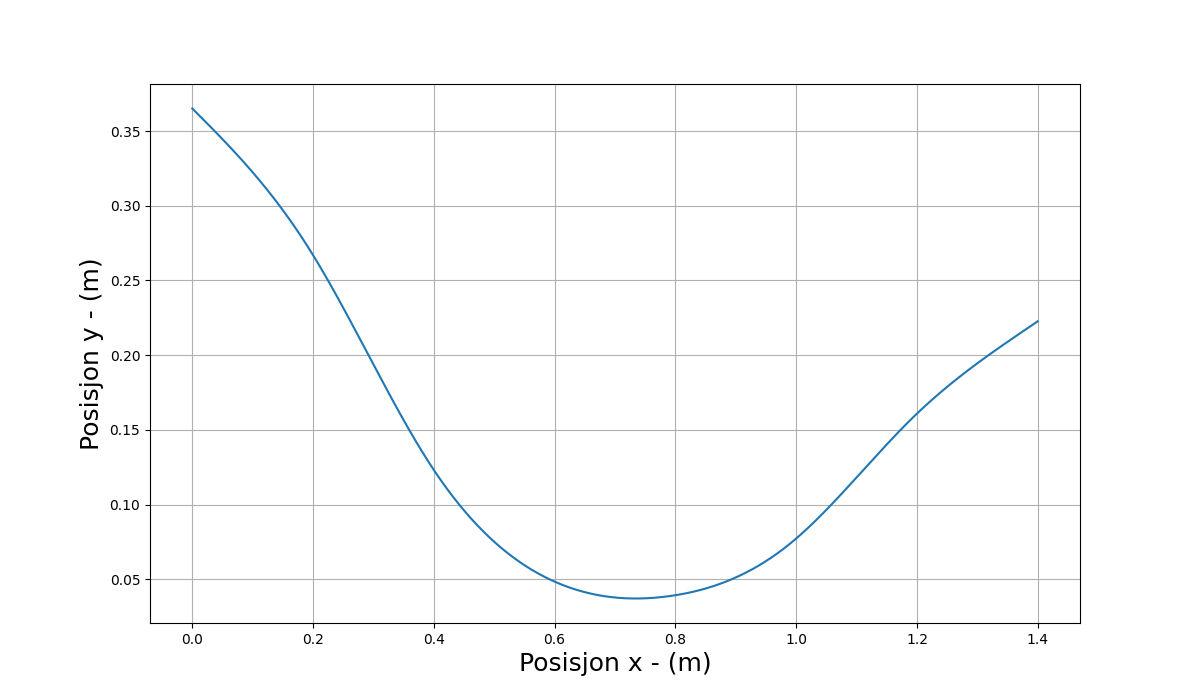
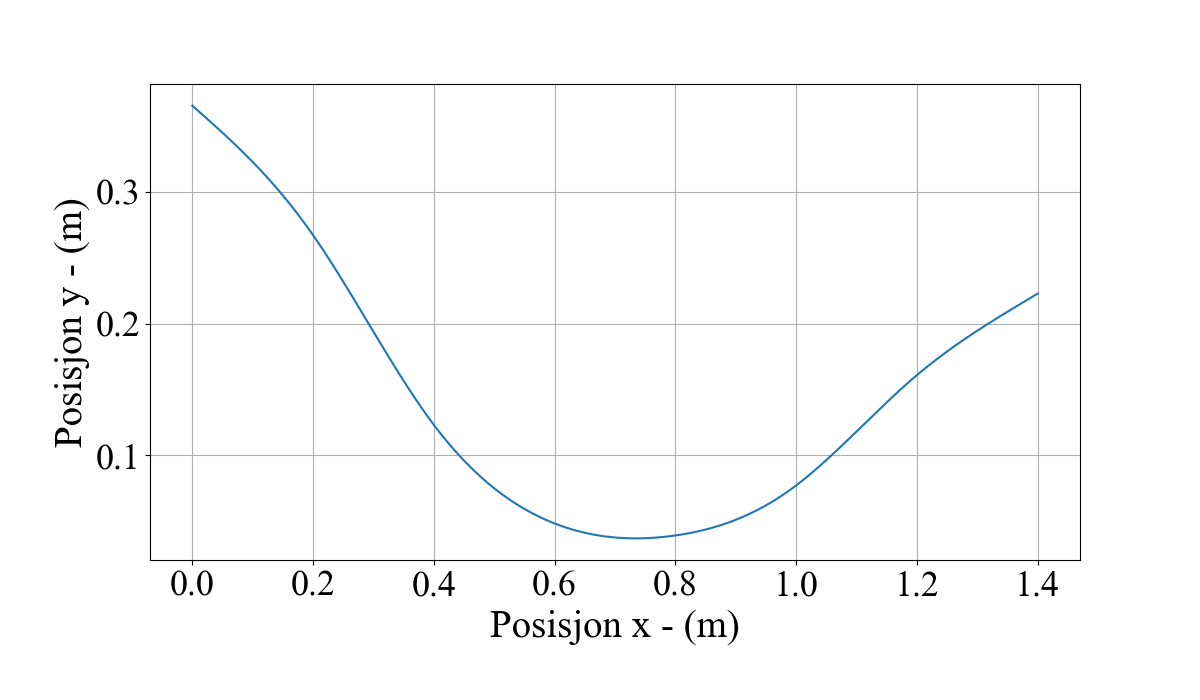
La til slutthastigheter, noe kode oppdatert

diff --git a/cubicspline.py b/cubicspline.py
@@ -1,5 +1,6 @@
 #Importerer noedvendige biblioteker:
 import matplotlib.pyplot as plt
+plt.rcParams["font.family"] = "Times New Roman"
 import numpy as np
 from scipy.interpolate import CubicSpline
 
@@ -105,8 +106,11 @@ def printXofTCompare():
     plt.plot(t, compare_y, color="red", label="Differanse")
     plt.fill_between(t, compare_y, 0, color="red")
     plt.legend()
-    plt.xlabel("Tid t - (s)", fontsize = 18)
-    plt.ylabel("Posisjon x - (m)", fontsize = 18)
+    plt.xlabel("Tid t - (s)", fontsize = 28)
+    plt.ylabel("Posisjon x - (m)", fontsize = 28)
+    plt.tick_params(axis='x', labelsize=26)
+    plt.tick_params(axis='y', labelsize=26)
+    plt.subplots_adjust(bottom=0.2)
     plt.grid()
     plt.savefig("figurer/XofTComp")
     #plt.show()
@@ -115,8 +119,11 @@ def printXofTCompare():
 def printXofT():
     plt.figure(figsize=(12,7), facecolor="w", edgecolor="w")
     plt.plot(t_list, x_t)
-    plt.xlabel("Tid t - (s)", fontsize = 18)
-    plt.ylabel("Posisjon x - (m)", fontsize = 18)
+    plt.xlabel("Tid t - (s)", fontsize = 28)
+    plt.ylabel("Posisjon x - (m)", fontsize = 28)
+    plt.tick_params(axis='x', labelsize=26)
+    plt.tick_params(axis='y', labelsize=26)
+    plt.subplots_adjust(bottom=0.2)
     plt.grid()
     plt.savefig("figurer/XofT")
     # plt.show()
@@ -125,28 +132,42 @@ def printXofT():
 def printVofT():
     plt.figure(figsize=(12,7), facecolor="w", edgecolor="w")
     plt.plot(t_list, v_t)
-    plt.xlabel("Tid t - (s)", fontsize = 18)
-    plt.ylabel("Hastighet v - (m/s)", fontsize = 18)
+    plt.xlabel("Tid t - (s)", fontsize = 28)
+    plt.ylabel("Hastighet v - (m/s)", fontsize = 28)
+    plt.tick_params(axis='x', labelsize=26)
+    plt.tick_params(axis='y', labelsize=26)
+    plt.subplots_adjust(bottom=0.2)
     plt.grid()
     plt.savefig("figurer/VofT")
     # plt.show()
 
 # Plotter V av x
 def printVofX():
+    t, x, y, v = np.genfromtxt("data/10.csv", delimiter=",", skip_header=2, unpack=True)
+    v.append(1.36598)
+    x.append(1.4)
     plt.figure(figsize=(12,7), facecolor="w", edgecolor="w")
-    plt.plot(x_t, v_t)
-    plt.xlabel("Posisjon x - (m)", fontsize = 18)
-    plt.ylabel("Hastighet v - (m/s)", fontsize = 18)
+    plt.plot(x_t, v_t, label="Numerisk hastighet")
+    plt.scatter(x, v, marker="o", color="red", label="Eksperimentell hastighet")
+    plt.legend(fontsize=22)
+    plt.xlabel("Posisjon x - (m)", fontsize = 28)
+    plt.ylabel("Hastighet v - (m/s)", fontsize = 28)
+    plt.tick_params(axis='x', labelsize=26)
+    plt.tick_params(axis='y', labelsize=26)
+    plt.subplots_adjust(bottom=0.2)
     plt.grid()
     plt.savefig("figurer/VofX")
-    #plt.show()
+    plt.show()
 
 # Plotter F av X
 def printFofX():
     plt.figure(figsize=(12,7), facecolor="w", edgecolor="w")
     plt.plot(x, F)
-    plt.xlabel("Posisjon x - (m)", fontsize = 18)
-    plt.ylabel("Friksjonskraft f - (N)", fontsize = 18)
+    plt.xlabel("Posisjon x - (m)", fontsize = 28)
+    plt.ylabel("Friksjonskraft f - (N)", fontsize = 28)
+    plt.tick_params(axis='x', labelsize=26)
+    plt.tick_params(axis='y', labelsize=26)
+    plt.subplots_adjust(bottom=0.2)
     plt.grid()
     plt.savefig("figurer/FofX")
     # plt.show()
@@ -155,8 +176,11 @@ def printFofX():
 def printNofX():
     plt.figure(figsize=(12,7), facecolor="w", edgecolor="w")
     plt.plot(x, N)
-    plt.xlabel("Posisjon x - (m)", fontsize = 18)
-    plt.ylabel("Normalkraft N - (N)", fontsize = 18)
+    plt.xlabel("Posisjon x - (m)", fontsize = 28)
+    plt.ylabel("Normalkraft N - (N)", fontsize = 28)
+    plt.tick_params(axis='x', labelsize=26)
+    plt.tick_params(axis='y', labelsize=26)
+    plt.subplots_adjust(bottom=0.2)
     plt.grid()
     plt.savefig("figurer/NofX")
     # plt.show()
@@ -165,8 +189,11 @@ def printNofX():
 def printYofX():
     plt.figure(figsize=(12,7), facecolor="w", edgecolor="w")
     plt.plot(x, y)
-    plt.xlabel("Posisjon x - (m)", fontsize = 18)
-    plt.ylabel("Posisjon y - (m)", fontsize = 18)
+    plt.xlabel("Posisjon x - (m)", fontsize = 28)
+    plt.ylabel("Posisjon y - (m)", fontsize = 28)
+    plt.tick_params(axis='x', labelsize=26)
+    plt.tick_params(axis='y', labelsize=26)
+    plt.subplots_adjust(bottom=0.2)
     plt.grid()
     plt.savefig("figurer/YofX")
     # plt.show()
@@ -175,8 +202,11 @@ def printYofX():
 def printFNofX():
     plt.figure(figsize=(12,7), facecolor="w", edgecolor="w")
     plt.plot(x, abs(F/N))
-    plt.xlabel("Posisjon x -(m)", fontsize = 18)
-    plt.ylabel("[f/N]", fontsize = 18)
+    plt.xlabel("Posisjon x -(m)", fontsize = 28)
+    plt.ylabel("[f/N]", fontsize = 28)
+    plt.tick_params(axis='x', labelsize=26)
+    plt.tick_params(axis='y', labelsize=26)
+    plt.subplots_adjust(bottom=0.2)
     plt.grid()
     plt.savefig("figurer/FNofX")
     # plt.show()

diff --git a/experimental.py b/experimental.py
@@ -5,7 +5,7 @@ end_speeds = []
 
 # Iterer over hver av tracker-analysene, beregner sluttfart i hvert tilfelle.
 # Tracker utelater siste frame, vi beregner sluttfart i denne:
-for i in range(1,10):
+for i in range(1,11):
     filename = "data/" + str(i) + ".csv"
     t, x, y, v = np.genfromtxt(filename, delimiter=",", skip_header=2, unpack=True)
     dist = np.sqrt((x[-1] - x[-2])**2 + (y[-1] - y[-2])**2)         # Avstand mellom siste frames  
@@ -25,3 +25,4 @@ standard_error = standard_diviation/np.sqrt(len(end_speeds))
 print("Mean", mean)
 print("Standard diviation", standard_diviation)
 print("Standard error: ", standard_error)
+print(end_speeds)
